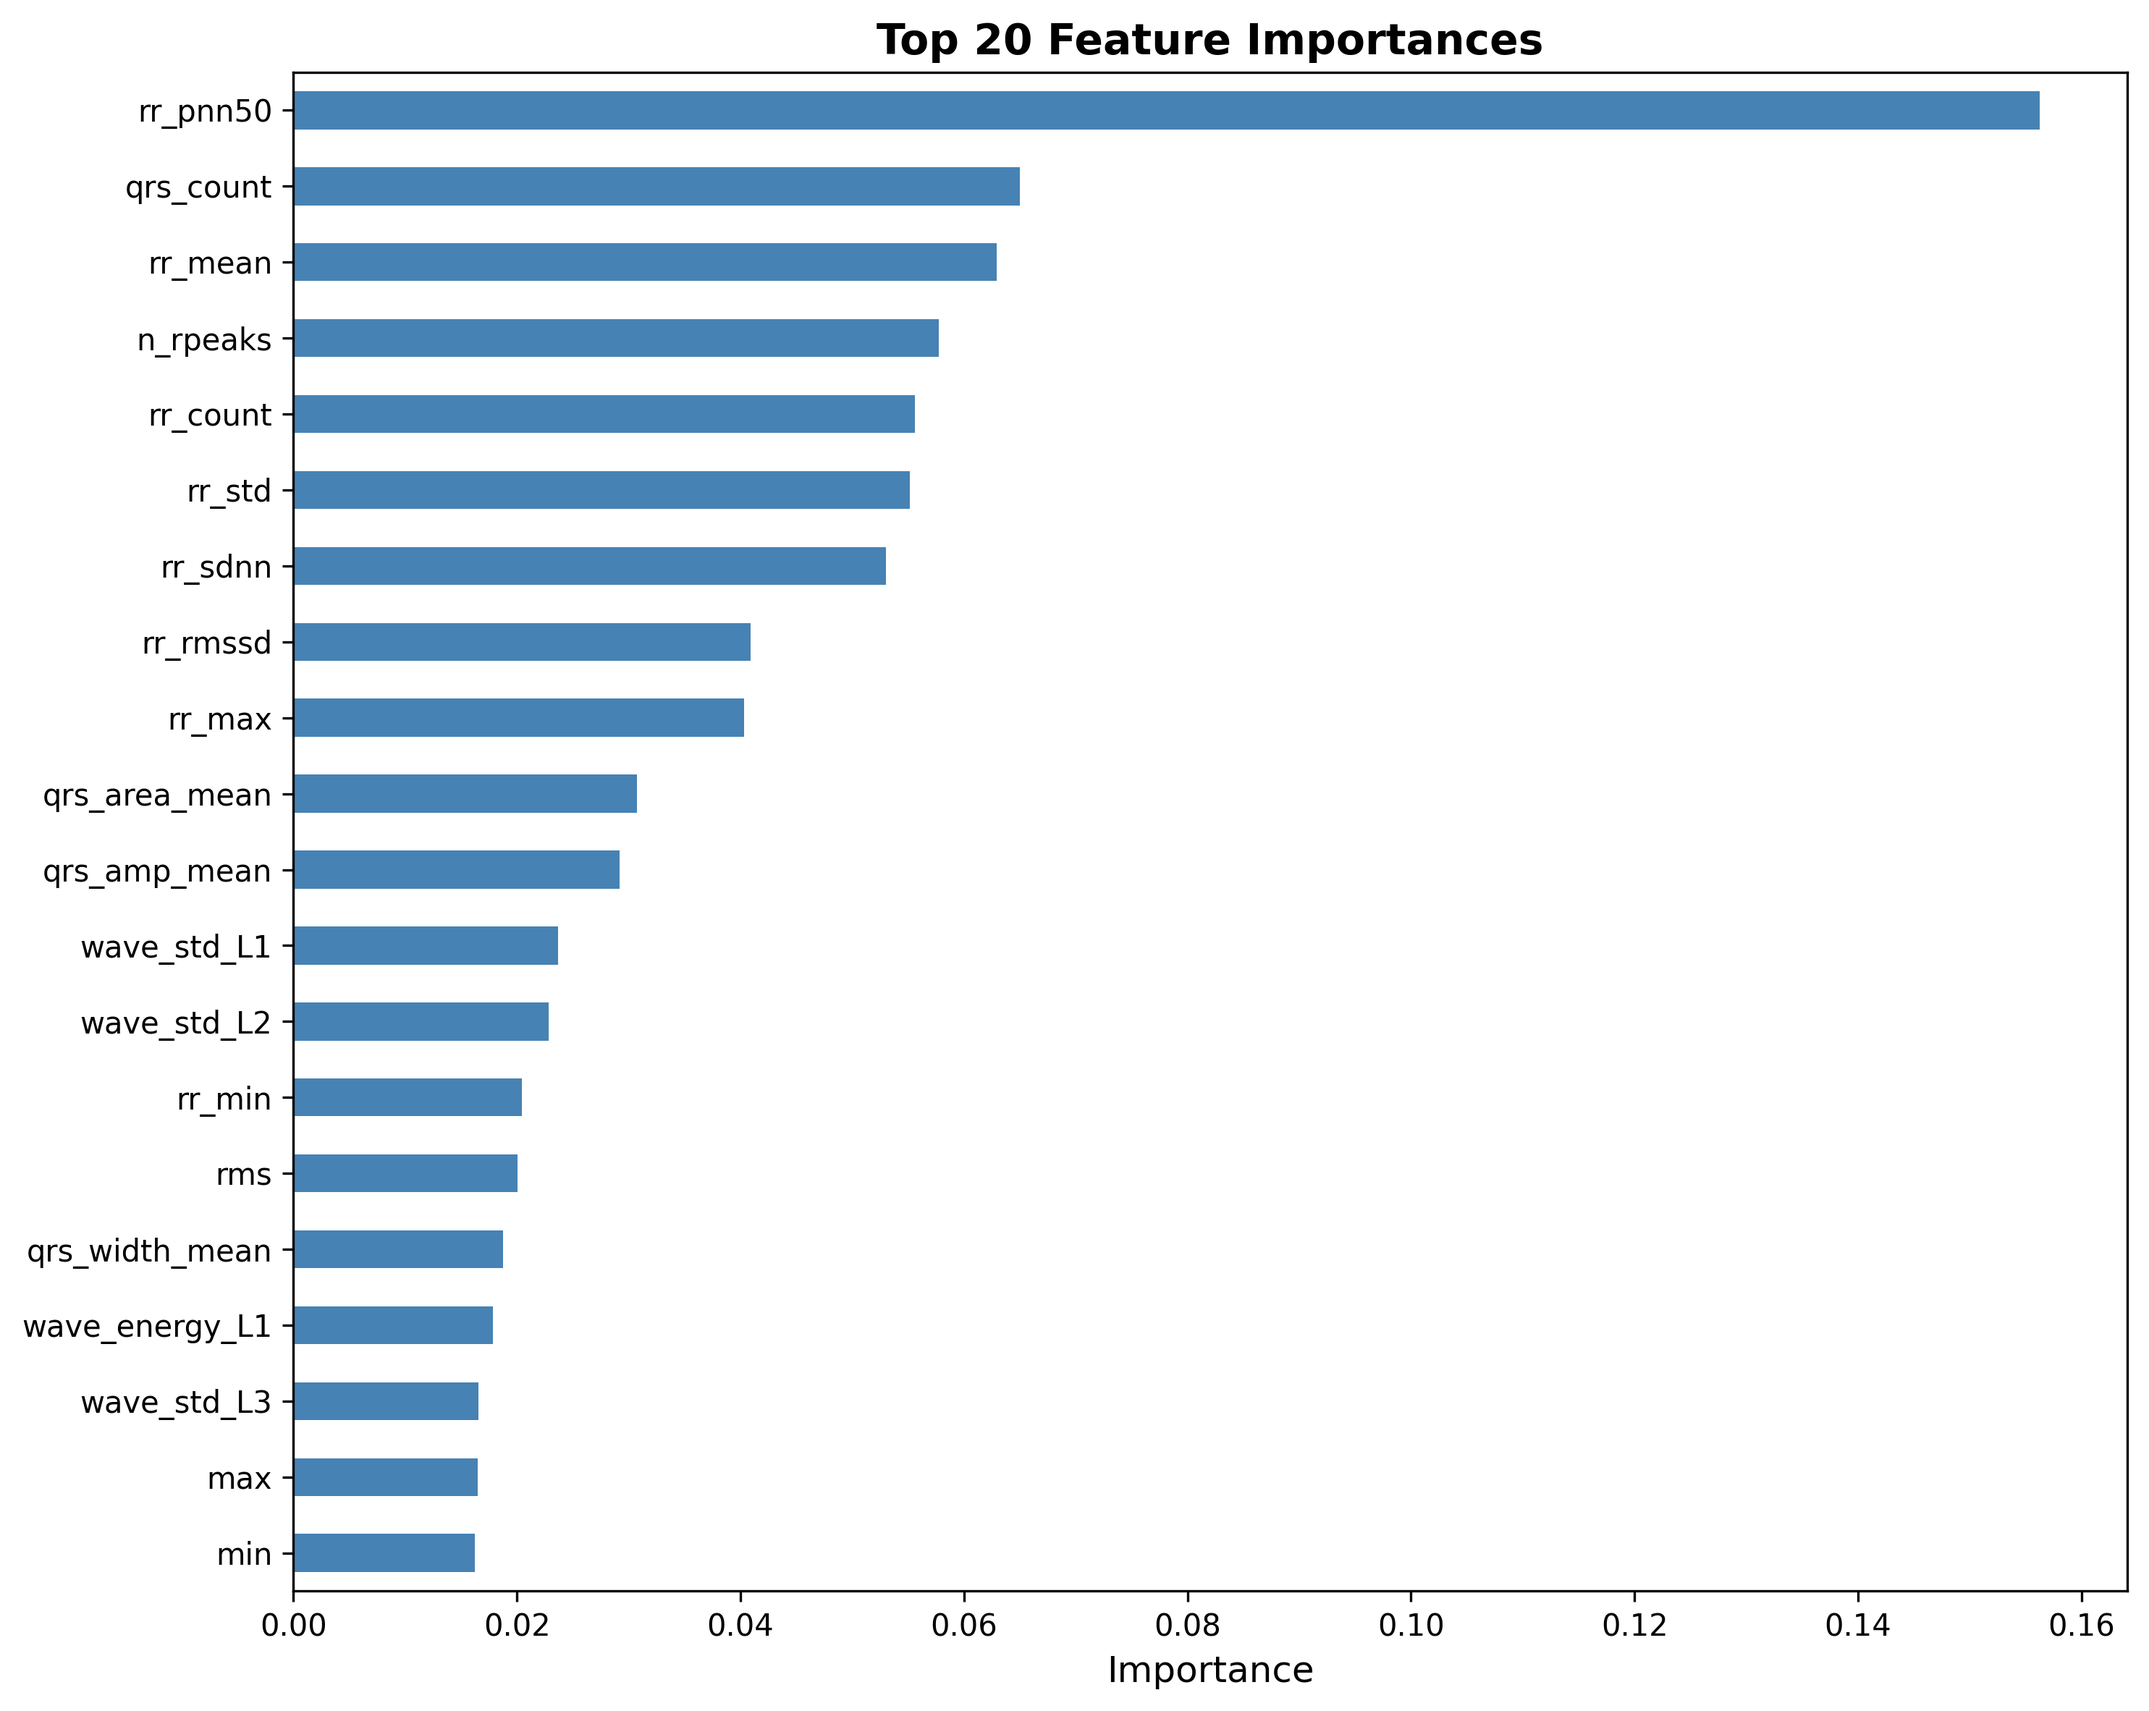
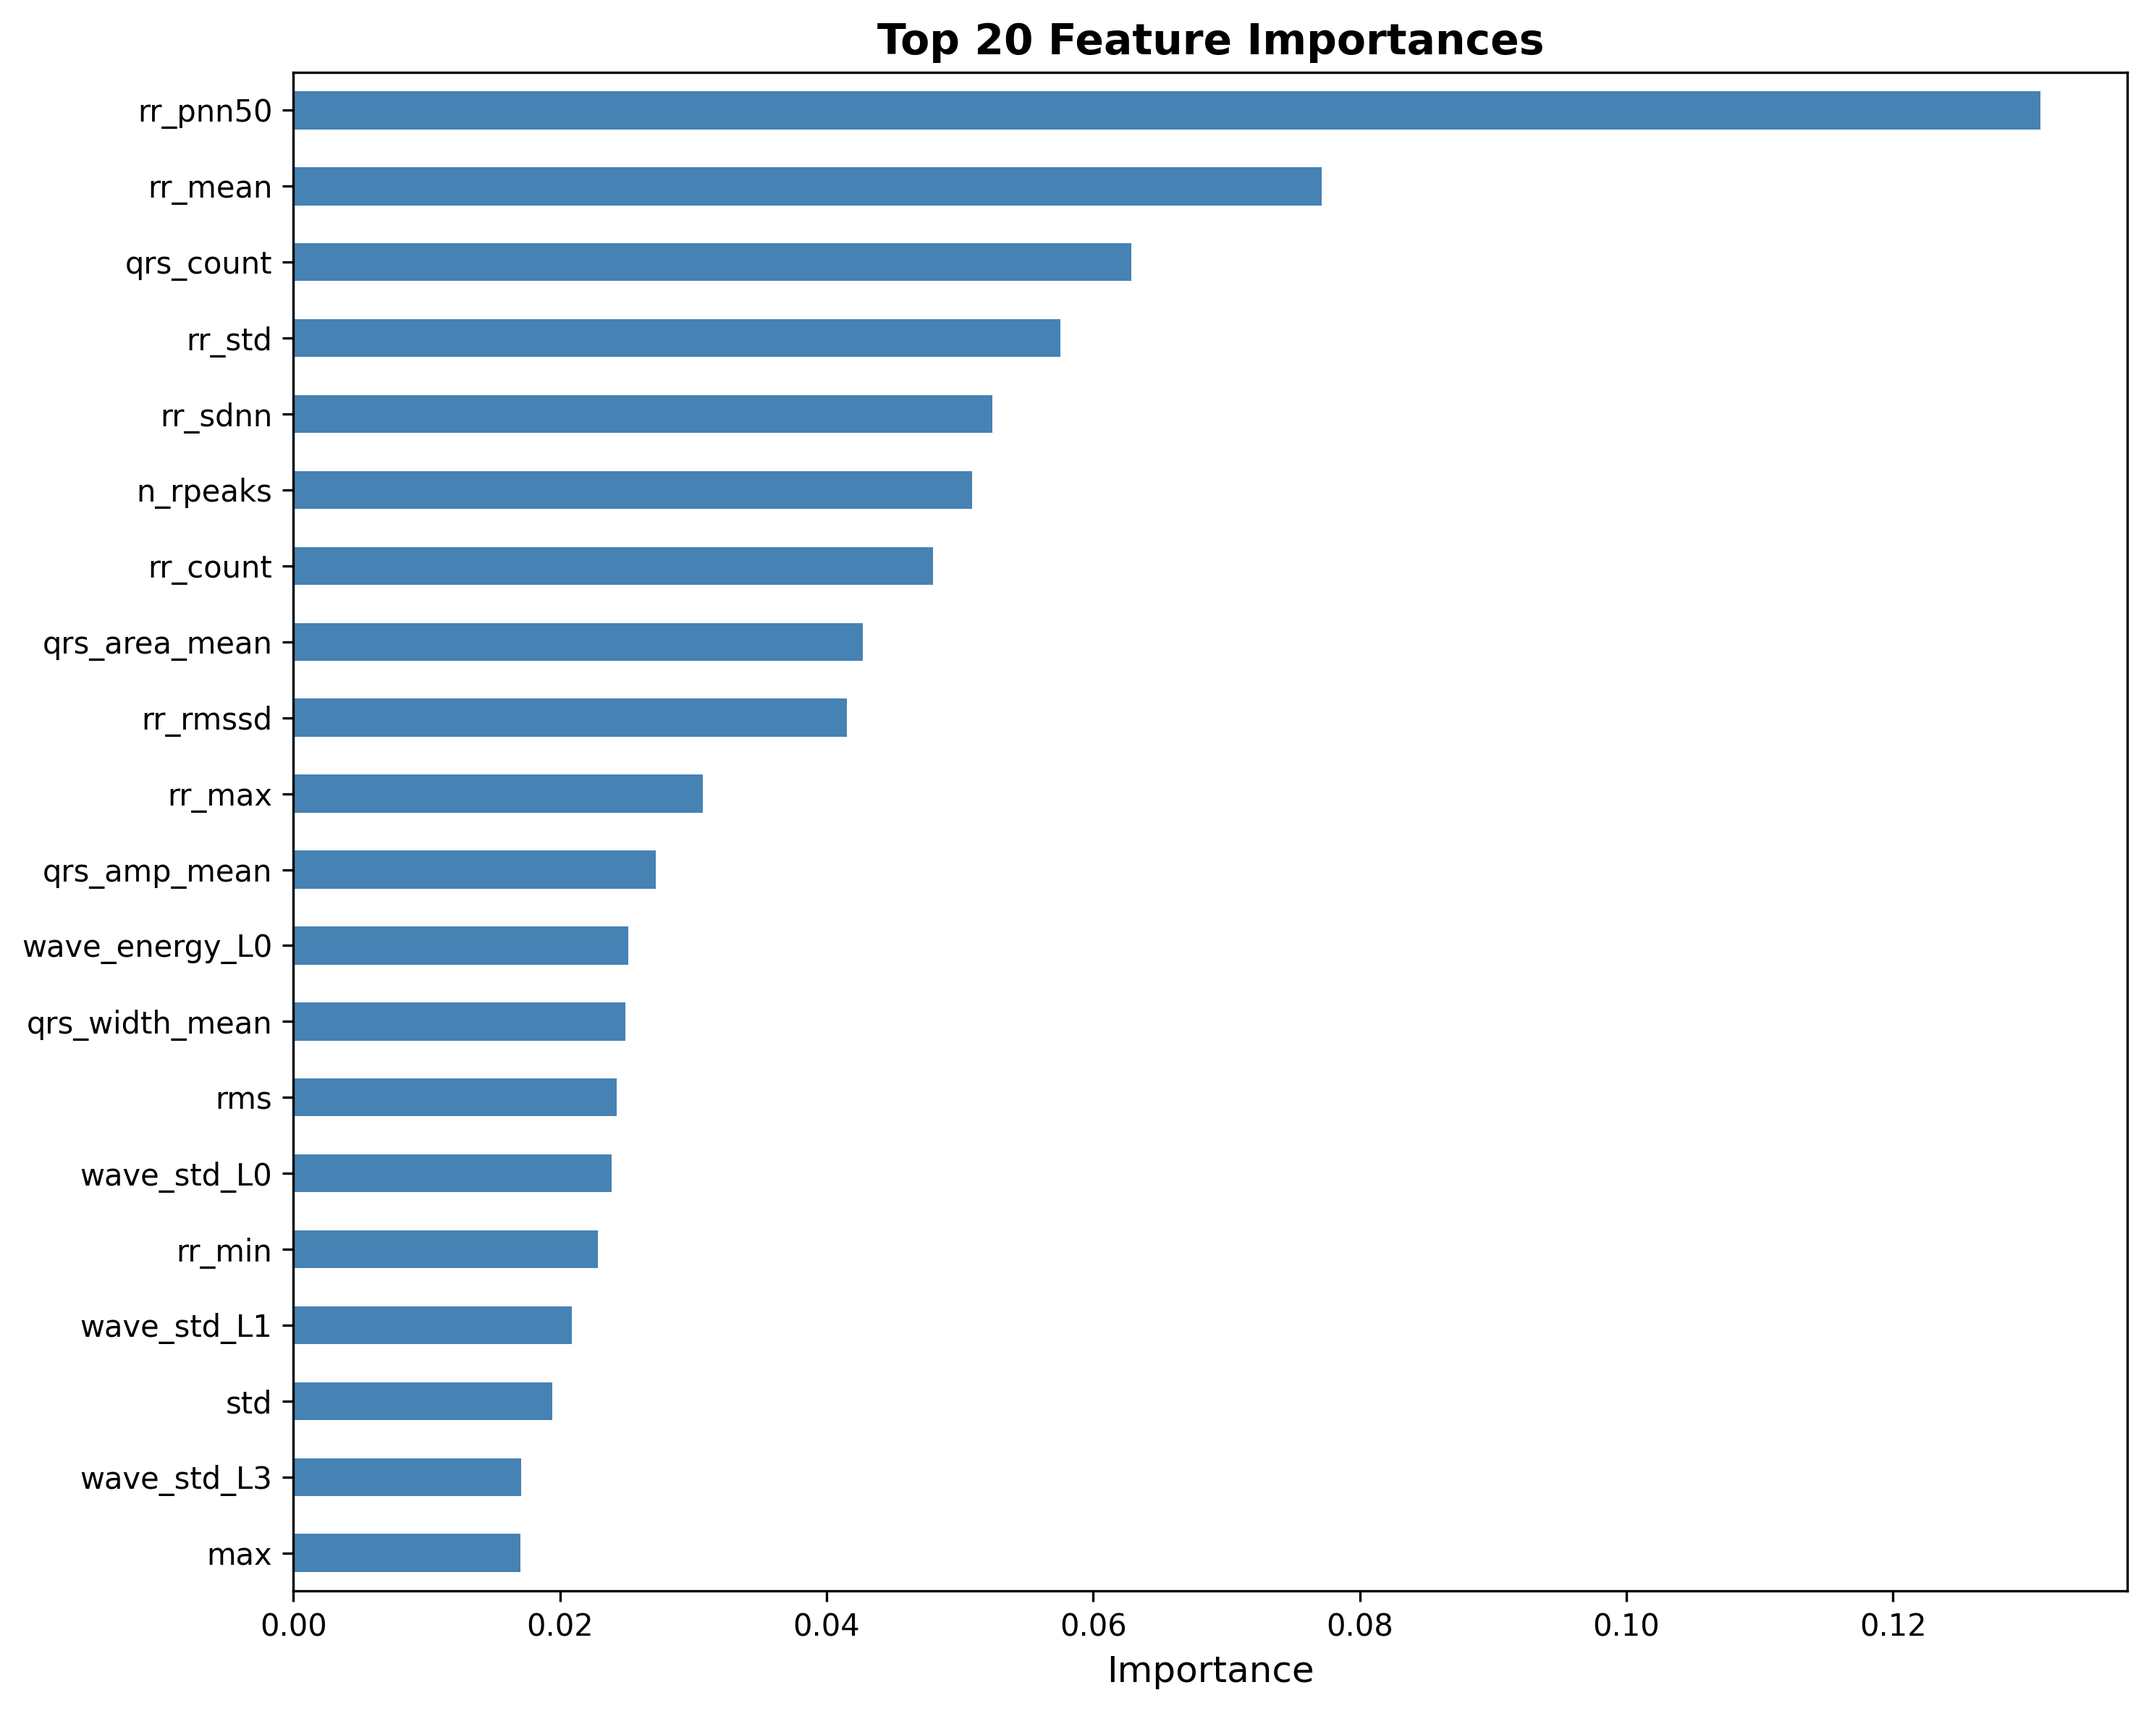
Better ReadMe

diff --git a/README.md b/README.md
@@ -24,6 +24,8 @@ entrenado con la base de datos AFDB de PhysioNet y senales propias del dispositi
 
 El modelo distingue cuatro tipos de ritmo cardiaco:
 
+Atrial 1 = AFIB (Fibrilación Auricular) y Atrial 2 = AFL (Flutter Auricular)
+
 | Etiqueta | Nombre clinico              | Descripcion breve                                      |
 |----------|-----------------------------|--------------------------------------------------------|
 | `AFIB`   | Fibrilacion Auricular        | Ritmo irregularmente irregular, sin onda P definida    |
@@ -55,7 +57,7 @@ results_supervised/
 ### Archivos de evaluacion y reporte (solo referencia, no necesarios para inferencia)
 
 ```
-results_supervised/
+results_retrained/
 ├── report.txt                  # Reporte narrativo legible, sobreescrito en cada run
 ├── metrics_<timestamp>.json    # Metricas completas en JSON, acumuladas por run
 ├── evaluation_summary.csv      # Tabla consolidada de accuracy por fuente y tipo de ruido
@@ -89,7 +91,7 @@ import pywt
 
 # --- Carga de artefactos ---
 # Ajusta la ruta al directorio donde guardaste los .joblib
-MODEL_DIR = "results_supervised"
+MODEL_DIR = "results_retrained"
 
 classifier    = joblib.load(f"{MODEL_DIR}/afdb_rhythm_classifier.joblib")
 scaler        = joblib.load(f"{MODEL_DIR}/afdb_scaler.joblib")
